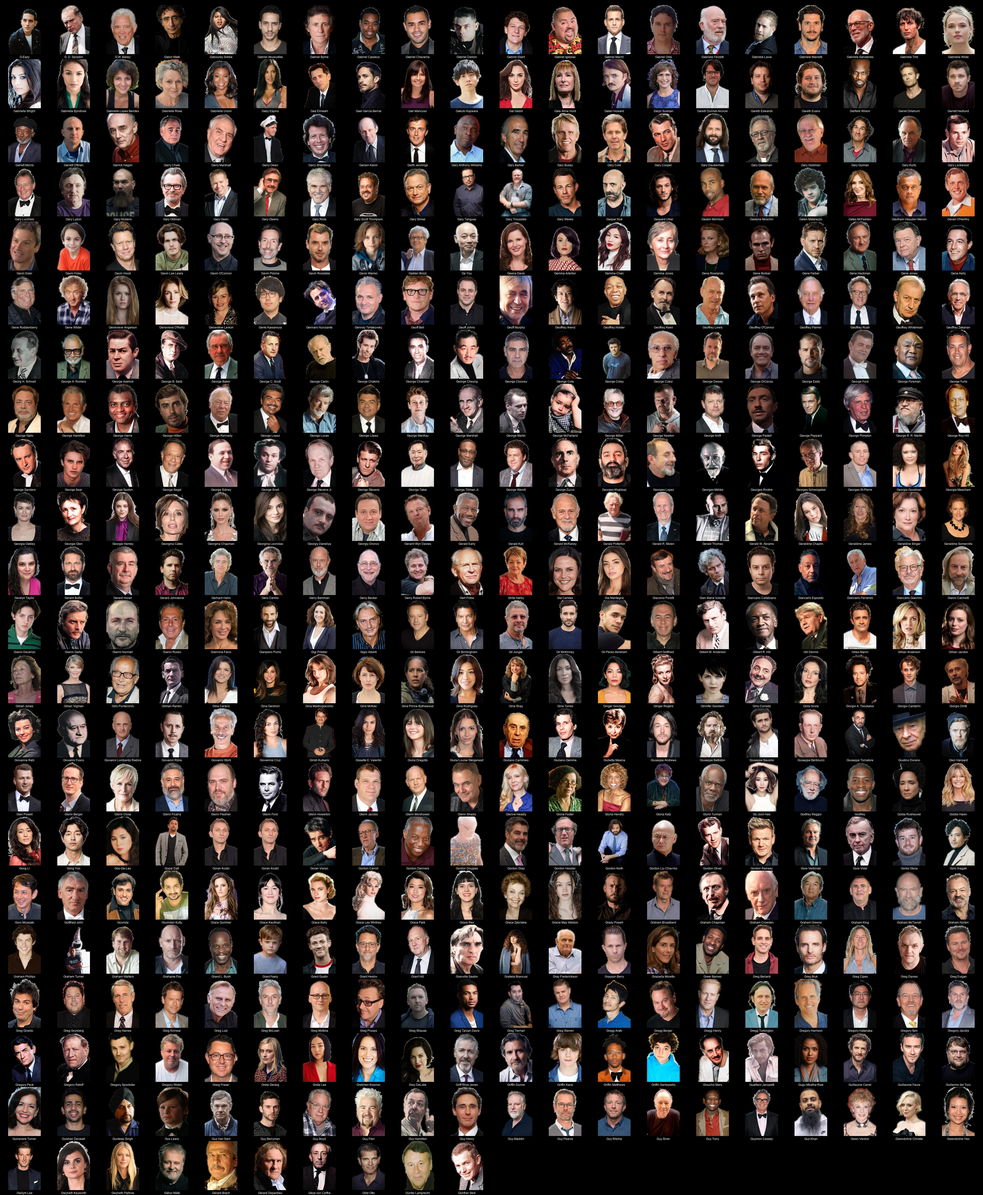
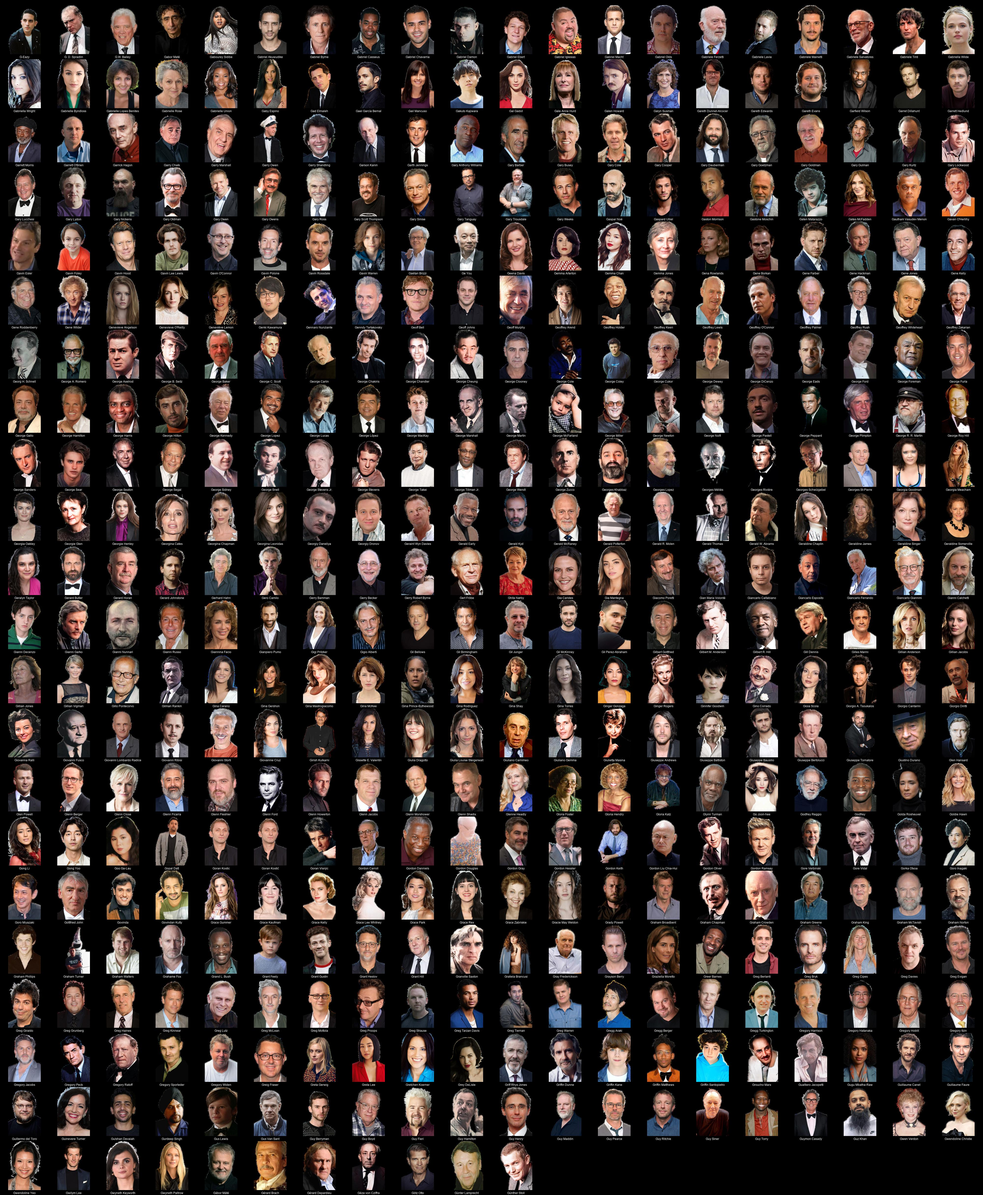
chore: sync posters & docs [transparent,diiivoycolor] - 2026-06-19 17:13

Changed region(s): [[0.0, 0.8078, 1.0, 1.0]]

diff --git a/README.md b/README.md
@@ -1,4 +1,4 @@
-# Kometa People Images - Transparent (transparent) (13002 Images)
+# Kometa People Images - Transparent (transparent) (13005 Images)
 
 <details><summary><a href="'">' (1 Images)</a></summary>
 
@@ -1071,7 +1071,7 @@
 * [Aziz Ansari](https://raw.githubusercontent.com/Kometa-Team/People-Images-transparent/master/A/Images/Aziz%20Ansari.png)
 * [Azumi Waki](https://raw.githubusercontent.com/Kometa-Team/People-Images-transparent/master/A/Images/Azumi%20Waki.png)
 </details>
-<details><summary><a href="B">B (654 Images)</a></summary>
+<details><summary><a href="B">B (655 Images)</a></summary>
 
 * [B.F. Blinn](https://raw.githubusercontent.com/Kometa-Team/People-Images-transparent/master/B/Images/B.F.%20Blinn.png)
 * [B.J. Penn](https://raw.githubusercontent.com/Kometa-Team/People-Images-transparent/master/B/Images/B.J.%20Penn.png)
@@ -1587,6 +1587,7 @@
 * [Brian Schaeffer](https://raw.githubusercontent.com/Kometa-Team/People-Images-transparent/master/B/Images/Brian%20Schaeffer.png)
 * [Brian Simpson](https://raw.githubusercontent.com/Kometa-Team/People-Images-transparent/master/B/Images/Brian%20Simpson.png)
 * [Brian Smyj](https://raw.githubusercontent.com/Kometa-Team/People-Images-transparent/master/B/Images/Brian%20Smyj.png)
+* [Brian Steele](https://raw.githubusercontent.com/Kometa-Team/People-Images-transparent/master/B/Images/Brian%20Steele.png)
 * [Brian Taylor](https://raw.githubusercontent.com/Kometa-Team/People-Images-transparent/master/B/Images/Brian%20Taylor.png)
 * [Brian Trenchard-Smith](https://raw.githubusercontent.com/Kometa-Team/People-Images-transparent/master/B/Images/Brian%20Trenchard-Smith.png)
 * [Brian Tyree Henry](https://raw.githubusercontent.com/Kometa-Team/People-Images-transparent/master/B/Images/Brian%20Tyree%20Henry.png)
@@ -4072,7 +4073,7 @@
 * [Furio Scarpelli](https://raw.githubusercontent.com/Kometa-Team/People-Images-transparent/master/F/Images/Furio%20Scarpelli.png)
 * [Furukawa Makoto](https://raw.githubusercontent.com/Kometa-Team/People-Images-transparent/master/F/Images/Furukawa%20Makoto.png)
 </details>
-<details><summary><a href="G">G (430 Images)</a></summary>
+<details><summary><a href="G">G (431 Images)</a></summary>
 
 * [G-Eazy](https://raw.githubusercontent.com/Kometa-Team/People-Images-transparent/master/G/Images/G-Eazy.png)
 * [G. D. Spradlin](https://raw.githubusercontent.com/Kometa-Team/People-Images-transparent/master/G/Images/G.%20D.%20Spradlin.png)
@@ -4452,6 +4453,7 @@
 * [Gregg Turkington](https://raw.githubusercontent.com/Kometa-Team/People-Images-transparent/master/G/Images/Gregg%20Turkington.png)
 * [Gregory Harrison](https://raw.githubusercontent.com/Kometa-Team/People-Images-transparent/master/G/Images/Gregory%20Harrison.png)
 * [Gregory Hatanaka](https://raw.githubusercontent.com/Kometa-Team/People-Images-transparent/master/G/Images/Gregory%20Hatanaka.png)
+* [Gregory Hoblit](https://raw.githubusercontent.com/Kometa-Team/People-Images-transparent/master/G/Images/Gregory%20Hoblit.png)
 * [Gregory Itzin](https://raw.githubusercontent.com/Kometa-Team/People-Images-transparent/master/G/Images/Gregory%20Itzin.png)
 * [Gregory Jacobs](https://raw.githubusercontent.com/Kometa-Team/People-Images-transparent/master/G/Images/Gregory%20Jacobs.png)
 * [Gregory Peck](https://raw.githubusercontent.com/Kometa-Team/People-Images-transparent/master/G/Images/Gregory%20Peck.png)
@@ -7796,7 +7798,7 @@
 * [Léa Seydoux](https://raw.githubusercontent.com/Kometa-Team/People-Images-transparent/master/L/Images/L%C3%A9a%20Seydoux.png)
 * [Lúcio Andrey](https://raw.githubusercontent.com/Kometa-Team/People-Images-transparent/master/L/Images/L%C3%BAcio%20Andrey.png)
 </details>
-<details><summary><a href="M">M (1223 Images)</a></summary>
+<details><summary><a href="M">M (1224 Images)</a></summary>
 
 * [M'laah Kaur Singh](https://raw.githubusercontent.com/Kometa-Team/People-Images-transparent/master/M/Images/M%27laah%20Kaur%20Singh.png)
 * [M. Emmet Walsh](https://raw.githubusercontent.com/Kometa-Team/People-Images-transparent/master/M/Images/M.%20Emmet%20Walsh.png)
@@ -8082,6 +8084,7 @@
 * [Mark Bonnar](https://raw.githubusercontent.com/Kometa-Team/People-Images-transparent/master/M/Images/Mark%20Bonnar.png)
 * [Mark Boone Junior](https://raw.githubusercontent.com/Kometa-Team/People-Images-transparent/master/M/Images/Mark%20Boone%20Junior.png)
 * [Mark Burg](https://raw.githubusercontent.com/Kometa-Team/People-Images-transparent/master/M/Images/Mark%20Burg.png)
+* [Mark Burton](https://raw.githubusercontent.com/Kometa-Team/People-Images-transparent/master/M/Images/Mark%20Burton.png)
 * [Mark Camacho](https://raw.githubusercontent.com/Kometa-Team/People-Images-transparent/master/M/Images/Mark%20Camacho.png)
 * [Mark Canton](https://raw.githubusercontent.com/Kometa-Team/People-Images-transparent/master/M/Images/Mark%20Canton.png)
 * [Mark Consuelos](https://raw.githubusercontent.com/Kometa-Team/People-Images-transparent/master/M/Images/Mark%20Consuelos.png)

diff --git a/B/README.md b/B/README.md
@@ -1,4 +1,4 @@
-# Kometa People Images - Transparent (transparent) - B (654 Images)
+# Kometa People Images - Transparent (transparent) - B (655 Images)
 ![Grid](grid.jpg)
 
 * [B.F. Blinn](https://raw.githubusercontent.com/Kometa-Team/People-Images-transparent/master/B/Images/B.F.%20Blinn.png)
@@ -515,6 +515,7 @@
 * [Brian Schaeffer](https://raw.githubusercontent.com/Kometa-Team/People-Images-transparent/master/B/Images/Brian%20Schaeffer.png)
 * [Brian Simpson](https://raw.githubusercontent.com/Kometa-Team/People-Images-transparent/master/B/Images/Brian%20Simpson.png)
 * [Brian Smyj](https://raw.githubusercontent.com/Kometa-Team/People-Images-transparent/master/B/Images/Brian%20Smyj.png)
+* [Brian Steele](https://raw.githubusercontent.com/Kometa-Team/People-Images-transparent/master/B/Images/Brian%20Steele.png)
 * [Brian Taylor](https://raw.githubusercontent.com/Kometa-Team/People-Images-transparent/master/B/Images/Brian%20Taylor.png)
 * [Brian Trenchard-Smith](https://raw.githubusercontent.com/Kometa-Team/People-Images-transparent/master/B/Images/Brian%20Trenchard-Smith.png)
 * [Brian Tyree Henry](https://raw.githubusercontent.com/Kometa-Team/People-Images-transparent/master/B/Images/Brian%20Tyree%20Henry.png)

diff --git a/G/README.md b/G/README.md
@@ -1,4 +1,4 @@
-# Kometa People Images - Transparent (transparent) - G (430 Images)
+# Kometa People Images - Transparent (transparent) - G (431 Images)
 ![Grid](grid.jpg)
 
 * [G-Eazy](https://raw.githubusercontent.com/Kometa-Team/People-Images-transparent/master/G/Images/G-Eazy.png)
@@ -379,6 +379,7 @@
 * [Gregg Turkington](https://raw.githubusercontent.com/Kometa-Team/People-Images-transparent/master/G/Images/Gregg%20Turkington.png)
 * [Gregory Harrison](https://raw.githubusercontent.com/Kometa-Team/People-Images-transparent/master/G/Images/Gregory%20Harrison.png)
 * [Gregory Hatanaka](https://raw.githubusercontent.com/Kometa-Team/People-Images-transparent/master/G/Images/Gregory%20Hatanaka.png)
+* [Gregory Hoblit](https://raw.githubusercontent.com/Kometa-Team/People-Images-transparent/master/G/Images/Gregory%20Hoblit.png)
 * [Gregory Itzin](https://raw.githubusercontent.com/Kometa-Team/People-Images-transparent/master/G/Images/Gregory%20Itzin.png)
 * [Gregory Jacobs](https://raw.githubusercontent.com/Kometa-Team/People-Images-transparent/master/G/Images/Gregory%20Jacobs.png)
 * [Gregory Peck](https://raw.githubusercontent.com/Kometa-Team/People-Images-transparent/master/G/Images/Gregory%20Peck.png)

diff --git a/M/README.md b/M/README.md
@@ -1,4 +1,4 @@
-# Kometa People Images - Transparent (transparent) - M (1223 Images)
+# Kometa People Images - Transparent (transparent) - M (1224 Images)
 ![Grid](grid.jpg)
 
 * [M'laah Kaur Singh](https://raw.githubusercontent.com/Kometa-Team/People-Images-transparent/master/M/Images/M%27laah%20Kaur%20Singh.png)
@@ -285,6 +285,7 @@
 * [Mark Bonnar](https://raw.githubusercontent.com/Kometa-Team/People-Images-transparent/master/M/Images/Mark%20Bonnar.png)
 * [Mark Boone Junior](https://raw.githubusercontent.com/Kometa-Team/People-Images-transparent/master/M/Images/Mark%20Boone%20Junior.png)
 * [Mark Burg](https://raw.githubusercontent.com/Kometa-Team/People-Images-transparent/master/M/Images/Mark%20Burg.png)
+* [Mark Burton](https://raw.githubusercontent.com/Kometa-Team/People-Images-transparent/master/M/Images/Mark%20Burton.png)
 * [Mark Camacho](https://raw.githubusercontent.com/Kometa-Team/People-Images-transparent/master/M/Images/Mark%20Camacho.png)
 * [Mark Canton](https://raw.githubusercontent.com/Kometa-Team/People-Images-transparent/master/M/Images/Mark%20Canton.png)
 * [Mark Consuelos](https://raw.githubusercontent.com/Kometa-Team/People-Images-transparent/master/M/Images/Mark%20Consuelos.png)
